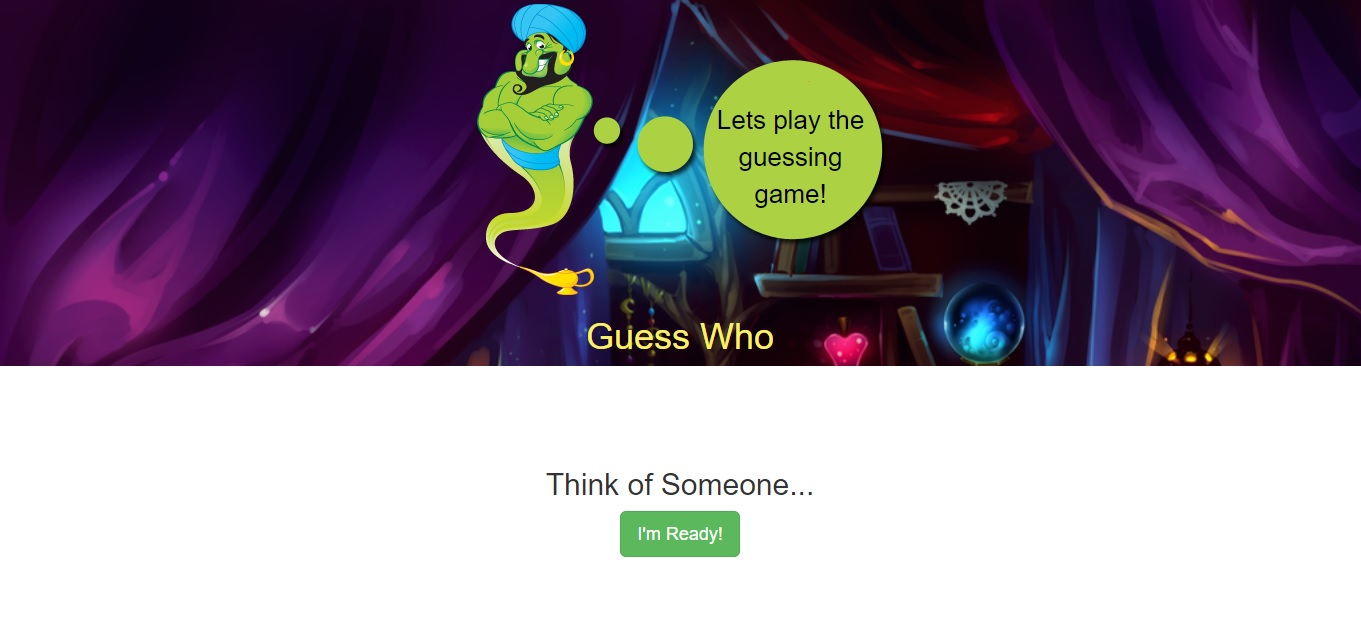
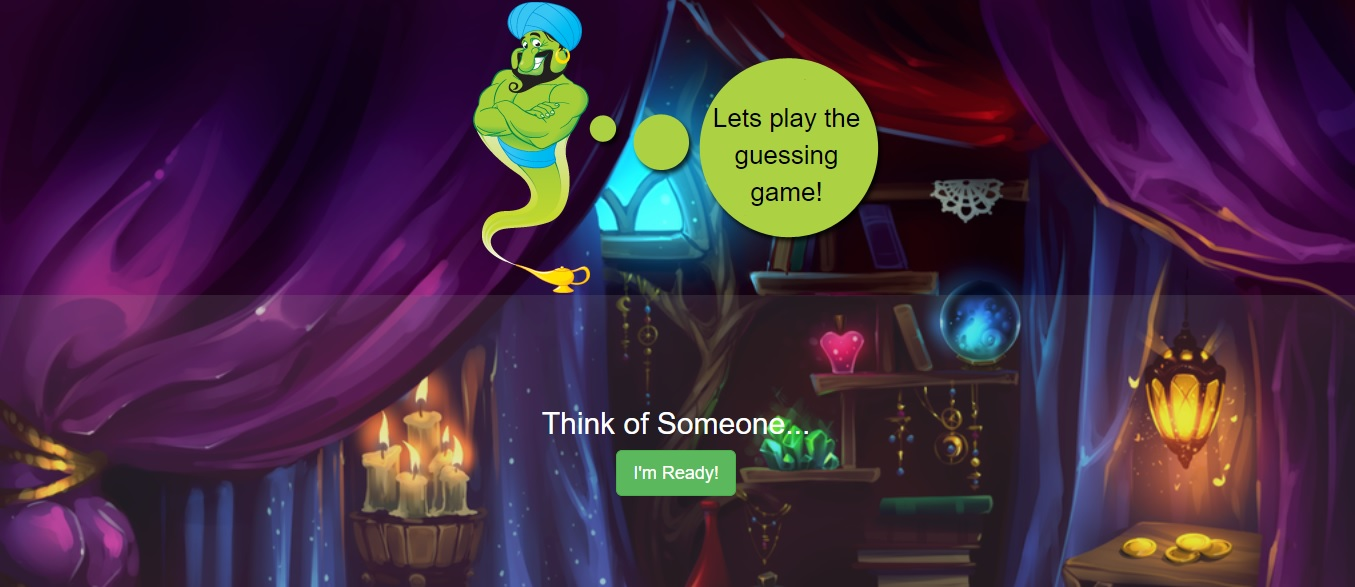
fixed some stuff

diff --git a/index.html b/index.html
@@ -8,7 +8,7 @@
   <meta name="description" content="">
   <meta name="author" content="">
 
-  <title>Coding Academy</title>
+  <title>Eyal Ohayon</title>
 
   <!-- Bootstrap core CSS -->
   <link href="vendor/bootstrap/css/bootstrap.min.css" rel="stylesheet">
@@ -33,7 +33,17 @@
 
   <!-- Contact -->
   <section id="contact">
-    <h4>Contact Me</h4>
+    <h2 class="contactHeader">Contact Me</h2>
+    <label for="fname">First Name:</label><br>
+    <input type="text" id="fname" name="firstname" placeholder="Your name.."><br>
+
+    <label for="lname">Last Name:</label><br>
+    <input type="text" id="lname" name="lastname" placeholder="Your last name.."><br>
+
+    <label for="subject">Message:</label><br>
+    <textarea id="subject" name="subject" placeholder="Write something.." style="height:200px"></textarea><br>
+
+    <input type="submit" value="Submit">
   </section>
     
   </aside>
@@ -82,7 +92,7 @@
       <div class="row">
         <div class="col-lg-12 text-center">
           <h2 class="section-heading">Specialities</h2>
-          <h3 class="section-subheading text-muted">Lorem ipsum dolor sit amet consectetur.</h3>
+          <h3 class="section-subheading text-muted">I can magically turn coffee into code.</h3>
         </div>
       </div>
       <div class="row text-center">
@@ -123,7 +133,7 @@
       <div class="row">
         <div class="col-lg-12 text-center">
           <h2 class="section-heading">Portfolio</h2>
-          <h3 class="section-subheading text-muted">Lorem ipsum dolor sit amet consectetur.</h3>
+          <h3 class="section-subheading text-muted">Those are my projects, Hope you'll enjoy them.</h3>
         </div>
       </div>
       <div class="row portfolio">
@@ -167,7 +177,7 @@
               Highly motivated, self-disciplined and responsible.<br>
               Good communication skills, excellent learning ability and rich teamwork experience.<br>
               Strong technical skills and creativity in solving complex problems.<br><br>
-              Don't let anything stop you! <br>
+              Don't Let Your Dreams Be Dreams! <br>
               <img src="img/about/rhino.gif"/>
             </p>    
         </div>

diff --git a/projs/GuessMe/index.html b/projs/GuessMe/index.html
@@ -3,7 +3,7 @@
 
 <head>
   <meta charset="utf-8">
-  <title>My App</title>
+  <title>Guess Me</title>
   <link rel="stylesheet" href="http://maxcdn.bootstrapcdn.com/bootstrap/3.3.7/css/bootstrap.min.css" />
   <link rel="stylesheet" href="css/app.css" />
 </head>
@@ -14,7 +14,6 @@
       <img class="" src="img/layout/logo.png" />
       <p class="genieTalk">Lets play the guessing game!</p>
     </div>
-    <!-- <h1>Guess Who</h1> -->
   </header>
 
   <main>
@@ -28,7 +27,7 @@
       <button onclick="userResponse('no')" class="btn btn-danger">No</button>
     </section>
     <section class="gameNewQuest" style="display: none">
-      <h2>OK, I gave up...</h2>
+      <h2>OK, I give up...</h2>
 
       <form class="form-horizontal">
         <div class="form-group">

diff --git a/css/ca-gallery.css b/css/ca-gallery.css
@@ -85,7 +85,7 @@ body {
     position: fixed;
     height: 100%;
     z-index: 100000;
-    background: red;
+    background: whitesmoke;
     width: 30vw;
     left: -30vw;
     transition: all 0.3s ease;
@@ -747,4 +747,8 @@ fieldset[disabled] .btn-xl:hover {
 }
 .nav-item {
     text-align: right;
+}
+
+.contactHeader{
+    margin-bottom: 40px;
 }

diff --git a/projs/GuessMe/css/app.css b/projs/GuessMe/css/app.css
@@ -105,6 +105,9 @@ main {
     body{
       background-image: url('../img/layout/background2.jpg');
     }
+    main{
+      color:black;
+    }
   }
 @media (min-width: 885px) {
   .genieTalk {
